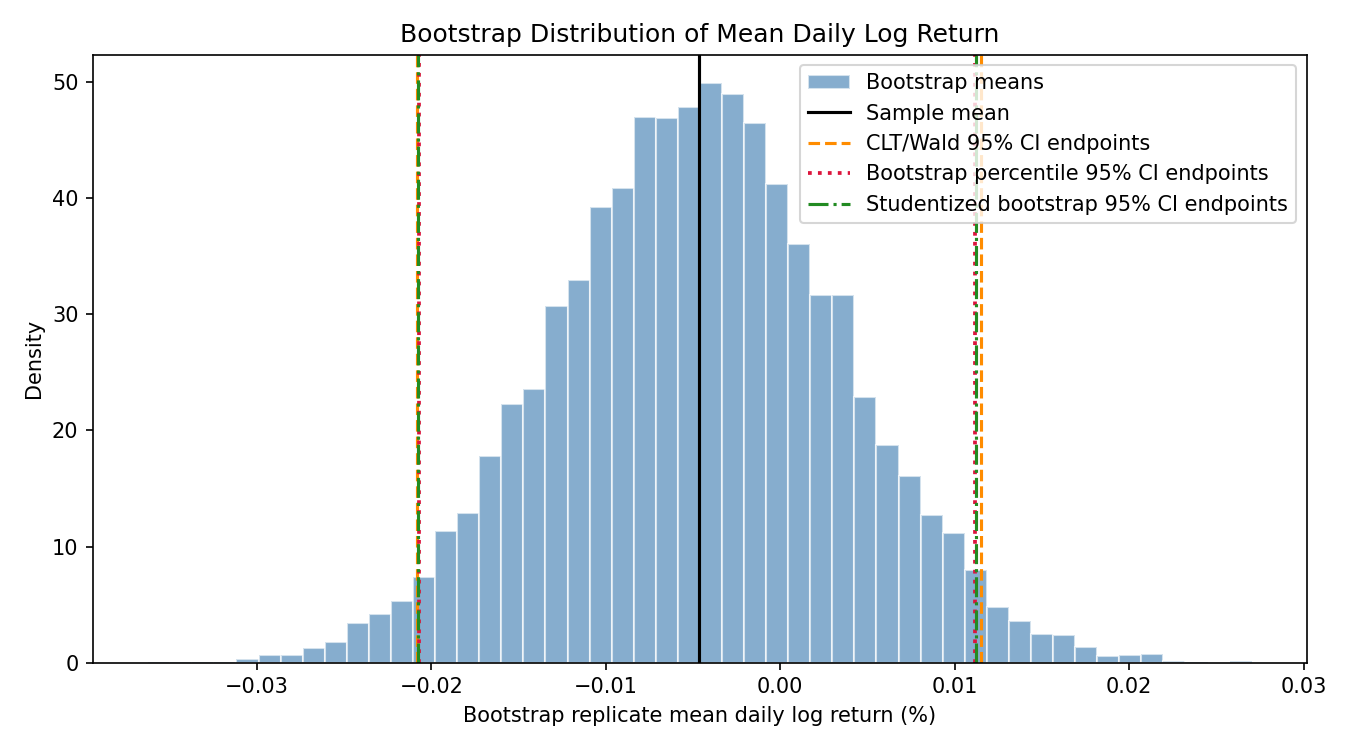
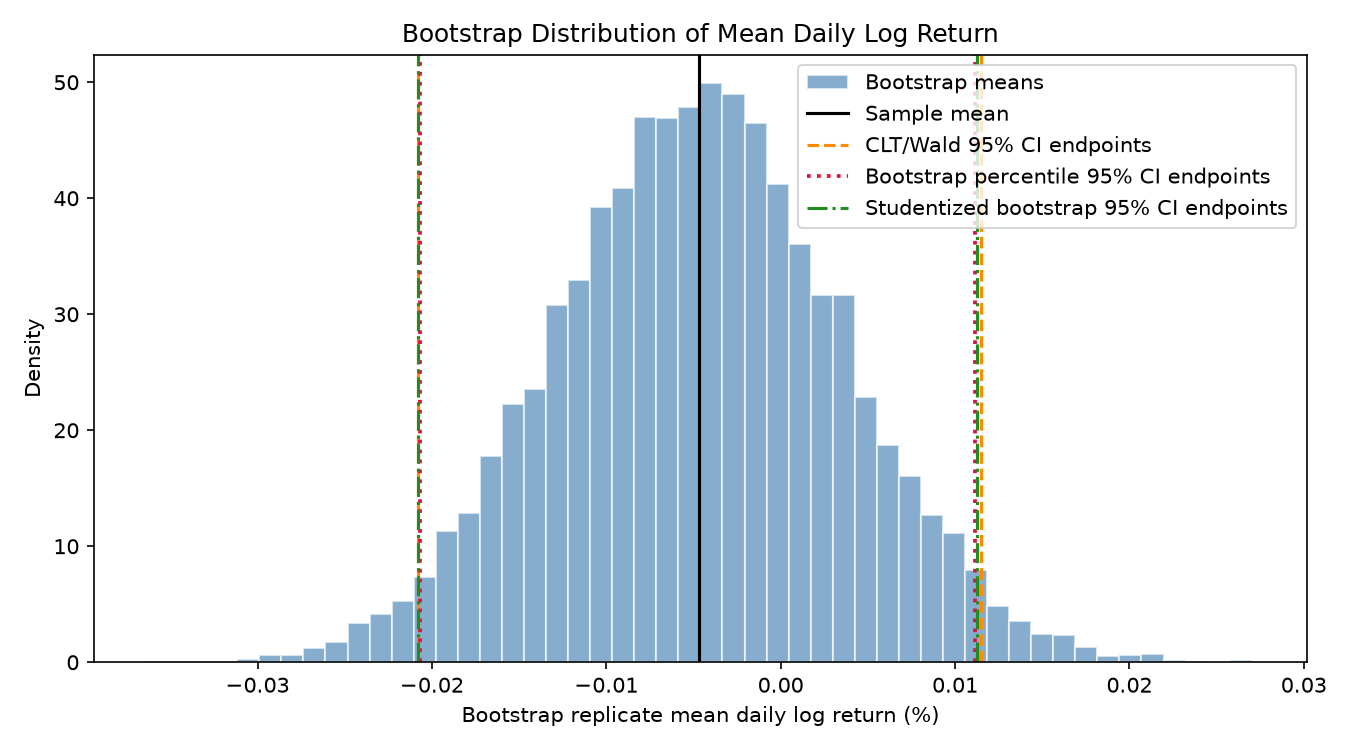
Improve project documentation and reproducibility

diff --git a/README.md b/README.md
@@ -1,12 +1,16 @@
 # ds607-usd-sgd-fx-project
 
-DS607 Group Project: Statistical Analysis of Daily USD/SGD Exchange Rate Dynamics
+DS607 Group Project: Statistical Analysis of USD/SGD Exchange Rate Dynamics
+
+This repository is DS607 group work for AY2026/27 August Term.
+
+**Team members:** Gou Hongyu, Jiang Liuru, and Sun Jiayi.
 
 ## 1. Executive Summary and Research Question
 
 ### Research Question
 
-"Does the daily log return of the USD/SGD exchange rate exhibit a statistically significant non-zero mean drift, and how do parametric CLT/Wald frameworks compare with non-parametric Bootstrap and Permutation inference in quantifying exchange rate location and uncertainty?"
+Does the mean of the observed USD/SGD log returns differ from zero, and do CLT/Wald and resampling-based confidence intervals and tests lead to consistent conclusions?
 
 ### Motivation
 
@@ -14,16 +18,17 @@ As a trade-dependent small open economy, Singapore utilizes the Singapore Dollar
 
 ## 2. Data Description and Ethics
 
-- **Data Source:** NBER (National Bureau of Economic Research)
-- **Sample Window:** 2021-09-27 to 2026-09-25 (1,305 dated rows in the raw file; 55 have no exchange-rate value, leaving 1,250 valid rates and 1,249 daily log returns)
-- **Target Variable:** Daily Log Returns ($r_t = \ln(S_t / S_{t-1}) \times 100\%$)
-- **Data Ethics:** Fully open public dataset. Raw data files are placed in `data/raw/` (git-ignored).
+- **Source:** NBER Macrohistory Database, series `DEXSIUS` ([database and access information](https://www.nber.org/research/data/nber-macrohistory-database)). The source workbook is included at `data/raw/DEXSIUS.xlsx`; the analysis-ready CSV is `data/processed/DEXSIUS_cleaned.csv`.
+- **Sample window:** 2021-09-27 to 2026-09-25. The raw file contains 1,305 dated rows; 55 have no exchange-rate value. The processed file contains 1,250 valid exchange rates and 1,249 non-missing log returns.
+- **Data dictionary:** `observation_date` is the observation date; `DEXSIUS` is the exchange-rate series as published by NBER; `log_return_pct` is $100\ln(S_t/S_{t-1})$. The first return is missing because there is no preceding observation.
+- **Cleaning and access:** The source workbook and processed CSV are committed, so running the analyses does not require separate data access. The processed CSV is used directly by the scripts; the transformation from workbook to CSV is not included as a script and should be documented or added for full end-to-end reproducibility. Missing return values are excluded during analysis. Missing dates in the source mean some intervals may span more than one day, so not every return necessarily represents a one-calendar-day change.
+- **Data ethics:** The repository contains the NBER source workbook and derived CSV. No SMU-licensed extract is used. Do not add licensed extracts, credentials, or `.env` files to a public repository.
 
 ---
 
 ## 3. Statistical Methodology
 
-This project evaluates two core course methods on the 1,249 daily log return observations:
+This project evaluates two course methods on the 1,249 available return observations. Both resampling procedures use 10,000 replicates and seed `60702`.
 
 ### Method 1: Location and Uncertainty (CLT vs. Non-Parametric Bootstrap 95% CIs)
 
@@ -34,7 +39,7 @@ This project evaluates two core course methods on the 1,249 daily log return obs
 
 #### Method 1 implementation and results
 
-The script saves the comparison table to `outputs/tables/method1_location_uncertainty.csv` and the bootstrap-mean histogram to `outputs/figures/method1_bootstrap_mean_distribution.png`. The histogram marks the CLT/Wald, percentile-bootstrap, and studentized-bootstrap interval endpoints with distinct line styles and colors.
+The script saves the comparison table to [method1_location_uncertainty.csv](outputs/tables/method1_location_uncertainty.csv) and the bootstrap-mean histogram to [method1_bootstrap_mean_distribution.png](outputs/figures/method1_bootstrap_mean_distribution.png). The histogram marks the CLT/Wald, percentile-bootstrap, and studentized-bootstrap interval endpoints with distinct line styles and colors.
 
 For the $N = 1{,}249$ daily log returns, the estimated mean is $-0.004664\%$. The CLT/Wald standard error is $0.008242\%$, compared with the bootstrap standard error of $0.008196\%$. The CLT/Wald 95% CI is $[-0.020819\%, 0.011491\%]$ (width $0.032310$ percentage points); the percentile-bootstrap 95% CI is $[-0.020702\%, 0.011136\%]$ (width $0.031838$ percentage points); and the studentized-bootstrap 95% CI is $[-0.020769\%, 0.011241\%]$ (width $0.032010$ percentage points). The three intervals are very similar and all include zero. This interval comparison is consistent with uncertainty around a mean close to zero; it is not a replacement for the formal zero-drift tests in Method 2.
 
@@ -48,7 +53,7 @@ For the $N = 1{,}249$ daily log returns, the estimated mean is $-0.004664\%$. Th
 
 #### Method 2 implementation and results
 
-The script saves the test table to `outputs/tables/method2_hypothesis_test.csv`, the sign-flip permutation distribution to `outputs/figures/method2_permutation_distribution.png`, and the return-density comparison to `outputs/figures/method2_returns_vs_normal.png`. For the $N = 1{,}249$ daily log returns, the Wald z statistic is $-0.565826$, with a two-sided Wald p-value of $0.571512$ and a sign-flip permutation p-value of $0.570343$. At the 5% significance level, both tests fail to reject $H_0$, so the results do not support a non-zero mean daily return.
+The script saves the test table to [method2_hypothesis_test.csv](outputs/tables/method2_hypothesis_test.csv), the sign-flip permutation distribution to [method2_permutation_distribution.png](outputs/figures/method2_permutation_distribution.png), and the return-density comparison to [method2_returns_vs_normal.png](outputs/figures/method2_returns_vs_normal.png). For $N = 1{,}249$, the Wald statistic is $-0.565826$ ($p=0.571512$), and the sign-flip permutation test gives $p=0.570343$. Both tests fail to reject $H_0$ at the 5% level; this is insufficient evidence of a non-zero mean, not proof that the mean is exactly zero.
 
 ---
 
@@ -63,36 +68,29 @@ ds607-usd-sgd-fx-project/
 ├── data/
 │   ├── raw/                     # Raw NBER exchange-rate data
 │   └── processed/               # Cleaned and processed datasets
-├── notebooks/                  # Analysis notebooks and exploratory work
-├── src/                        # Source scripts for data handling and inference
+├── src/                         # Analysis scripts
 ├── outputs/
 │   ├── figures/                 # Visualization outputs
 │   ├── tables/                  # Summary tables and model results
-│   └── presentation/            # Presentation materials and deck exports
+│   └── presentation/            # Required presentation PDF (not yet included)
 └── .gitignore                  # Repository ignore rules
 ```
 
 ### Dependencies
 
-The project dependencies are managed in `requirements.txt` and include the core packages required for data cleaning, inference, and visualization:
+The analysis dependencies and tested versions are pinned in `requirements.txt`.
 
-- `pandas>=2.0.0`
-- `numpy>=1.24.0`
-- `scipy>=1.10.0`
-- `matplotlib>=3.7.0`
-- `statsmodels>=0.14.0`
-- `yfinance>=0.2.0`
-
-Install them via:
+Install dependencies and run both analyses from the repository root:
 
 ```bash
-pip install -r requirements.txt
+python -m venv .venv
+source .venv/bin/activate
+python -m pip install -r requirements.txt
+python src/method1_location_uncertainty.py
+python src/method2_hypothesis_test.py
 ```
 
-### Reproducibility
-
-- All random sampling algorithms enforce a fixed random seed (`RNG = np.random.default_rng(60702)`).
-- Project scripts and analysis can be run after installing the dependencies above.
+Both scripts read the committed processed CSV using paths relative to the script and regenerate their tables and figures under `outputs/`. Bootstrap and permutation sampling use a fixed seed (`60702`) and 10,000 replicates.
 
 ---
 
@@ -100,17 +98,23 @@ pip install -r requirements.txt
 
 ### Key Takeaway
 
----
+The estimated mean return is $-0.004664\%$. All three 95% confidence intervals include zero: CLT/Wald $[-0.020819\%, 0.011491\%]$, percentile bootstrap $[-0.020702\%, 0.011136\%]$, and studentized bootstrap $[-0.020769\%, 0.011241\%]$. Their similar widths indicate that these methods give comparable uncertainty estimates for this sample.
+
+The Wald and sign-flip tests also give similar, non-significant results ($p=0.571512$ and $p=0.570343$). At the 5% level we do not reject a zero mean. See the linked tables and figures above for the full estimates and distributions.
 
 ## 6. Limitations
 
-1. **Independence Assumption:** Daily FX returns exhibit ARCH/GARCH volatility clustering. Block Bootstrap could be used in future work to handle autocorrelation.
-2. **Policy Regimes:** The 2021–2026 window includes Fed rate hikes and MAS policy tightening; sub-period analysis can further verify regime stability.
+1. **Observation intervals:** Missing values in the source series mean some retained observations may be more than one day apart. A dedicated cleaning script and interval-level sensitivity analysis would improve traceability.
+2. **Inference assumptions:** The Wald standard error treats observations as independent; FX returns can exhibit serial dependence and volatility clustering. The sign-flip test additionally relies on symmetry under the null. A block bootstrap or dependence-robust analysis would be useful follow-up work.
+3. **Policy regimes and sample window:** The 2021–2026 sample includes changing monetary-policy regimes; sub-period analysis could assess stability. Failure to reject the null does not establish that the true mean is zero.
 
 ---
 
-## 7. AI Usage and Contributions
+## 7. Presentation
 
-- **AI Usage:** Generative AI, primarily Gemini, was used as a coding assistant and writing support tool for code refinement, debugging, and documentation formatting.
-- **Human Verification:** All core statistical methods, empirical logic, hypothesis testing decisions, and final interpretations were designed, reviewed, and verified by the team.
-- **Contribution Statement:** This project reflects the team’s own analysis and judgment; AI was used as an assistive tool rather than a substitute for methodological reasoning.
+The DS607 guidelines require a presentation PDF in `outputs/presentation/`. That deck is not included in this repository snapshot and must be added before submission.
+
+## 8. AI Usage and Contributions
+
+- [AI_USAGE.md](AI_USAGE.md) documents the tools used and how outputs were checked.
+- [CONTRIBUTIONS.md](CONTRIBUTIONS.md) lists each member's project contributions.

diff --git a/CONTRIBUTIONS.md b/CONTRIBUTIONS.md
@@ -3,8 +3,10 @@
 **Course:** DS607 Statistics for Data Science  
 **Project Title:** Statistical Analysis of Daily USD/SGD Exchange Rate Dynamics
 
-| Team Member | Primary Responsibilities & Deliverables |
-| :--- | :--- |
-| **Gou Hongyu** | GitHub repository setup, project structure management, raw data acquisition, and final presentation deck preparation. |
-| **Jiang Liuru** | First statistical test implementation and validation, including the core inference workflow and model checking. |
-| **Sun Jiayi** | Second statistical test implementation and validation, including the complementary inference framework and result verification. |
+| Team Member | Data, Code, and Analysis | Figures, Slides, and Review |
+| :--- | :--- | :--- |
+| **Gou Hongyu** | Repository setup, project structure, and NBER source data acquisition. | Prepared the presentation deck. |
+| **Jiang Liuru** | Implemented and validated Method 1 (CLT/Wald and bootstrap confidence intervals), including its results table and figure. | Reviewed the inference workflow and model checks. |
+| **Sun Jiayi** | Implemented and validated Method 2 (Wald and sign-flip tests), including its results table and figures. | Verified the complementary test results. |
+
+All members reviewed the statistical methods, interpretations, and final repository materials. The analysis scripts regenerate their corresponding figures and tables in `outputs/`.
